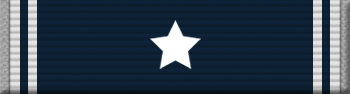
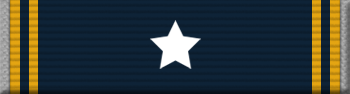
Fix for webhook security issue
Fix for roster bug
Update for service ribbons

Changed region(s): [[0.8857, 0.0, 0.9714, 1.0], [0.0286, 0.0, 0.1143, 1.0]]

diff --git a/tcb-roster.php b/tcb-roster.php
@@ -3,7 +3,7 @@
 Plugin Name: 3CB Roster
 Plugin URI: https://github.com/Arma-developement/tcb-roster
 Description: Design by Nick at Intention and Lifetap
-Version: 1.3.23
+Version: 1.3.24
 Author: Lifetap / Badger
 Author URI: https://github.com/Arma-developement/tcb-roster
 License: GPL2
@@ -62,6 +62,18 @@ require plugin_dir_path( __FILE__ ) . 'includes/class-tcb-roster.php';
  * @since    1.0.0
  */
 function run_tcb_roster() {
+    $root = $_SERVER['DOCUMENT_ROOT'];
+    $envFilepath = "$root/tcb.env";
+    
+    if (is_file($envFilepath)) {
+        $file = new \SplFileObject($envFilepath);
+
+        // Loop until we reach the end of the file.
+        while (!$file->eof()) {
+            // Get the current line value, trim it and save by putenv.
+            putenv(trim($file->fgets()));
+        }
+    }
 
 	$plugin = new Tcb_Roster();
 	$plugin->run();

diff --git a/admin/partials/tcb-roster-admin-post-to-discord.php b/admin/partials/tcb-roster-admin-post-to-discord.php
@@ -4,14 +4,16 @@ function tcb_roster_admin_post_to_discord ( $sender, $channel, $message ) {
 
     switch ($channel) {
         case 'recruitment-managers':
-            $webhook = 'https://discord.com/api/webhooks/1039164797125668894/cfPBzoEb5PGzCUv66rK9gaMDUVWHNL_B--nOeB00VkeeCi6DFVuewMTNOCEvObOwst4t';
+            $webhook = getenv ('DISCORD_WEBHOOK_RECRUITMENT_MANAGERS', true);
             break;
         case 'announcements':
-            $webhook = 'https://discord.com/api/webhooks/1039164797125668894/cfPBzoEb5PGzCUv66rK9gaMDUVWHNL_B--nOeB00VkeeCi6DFVuewMTNOCEvObOwst4t';
+            $webhook = getenv ('DISCORD_WEBHOOK_ANNOUNCEMENTS', true);
             break;    
         default:
             return false;
     }
+
+    //var_dump($webhook);
 
     $data = array( 'content' => $message, 'username' => $sender );
     $curl = curl_init( $webhook );

diff --git a/public/partials/tcb-roster-public-subsection.php b/public/partials/tcb-roster-public-subsection.php
@@ -24,6 +24,12 @@ function tcb_roster_public_subsection($attributes) {
 
 				$userId = get_field( 'user_id', $post );
 				$user = get_user_by( 'id', $userId );
+
+				// Check for old service records, with no user
+				if (!$user) {
+					continue;
+				}
+
 				$displayName = $user->get( 'display_name' );
 
 				if ((get_field( 'loa', $post ) == 1) && ($rank != 'Res')) {
@@ -65,6 +71,12 @@ function tcb_roster_public_subsection($attributes) {
 
 				$userId = get_field( 'user_id', $post );
 				$user = get_user_by( 'id', $userId );
+
+				// Check for old service records, with no user
+				if (!$user) {
+					continue;
+				}
+
 				$displayName = $user->get( 'display_name' );
 
 				$return .= '<li><a href="'. home_url() .'/user-info/?id=' . $userId . '">' . $displayName . '</a></li>';
